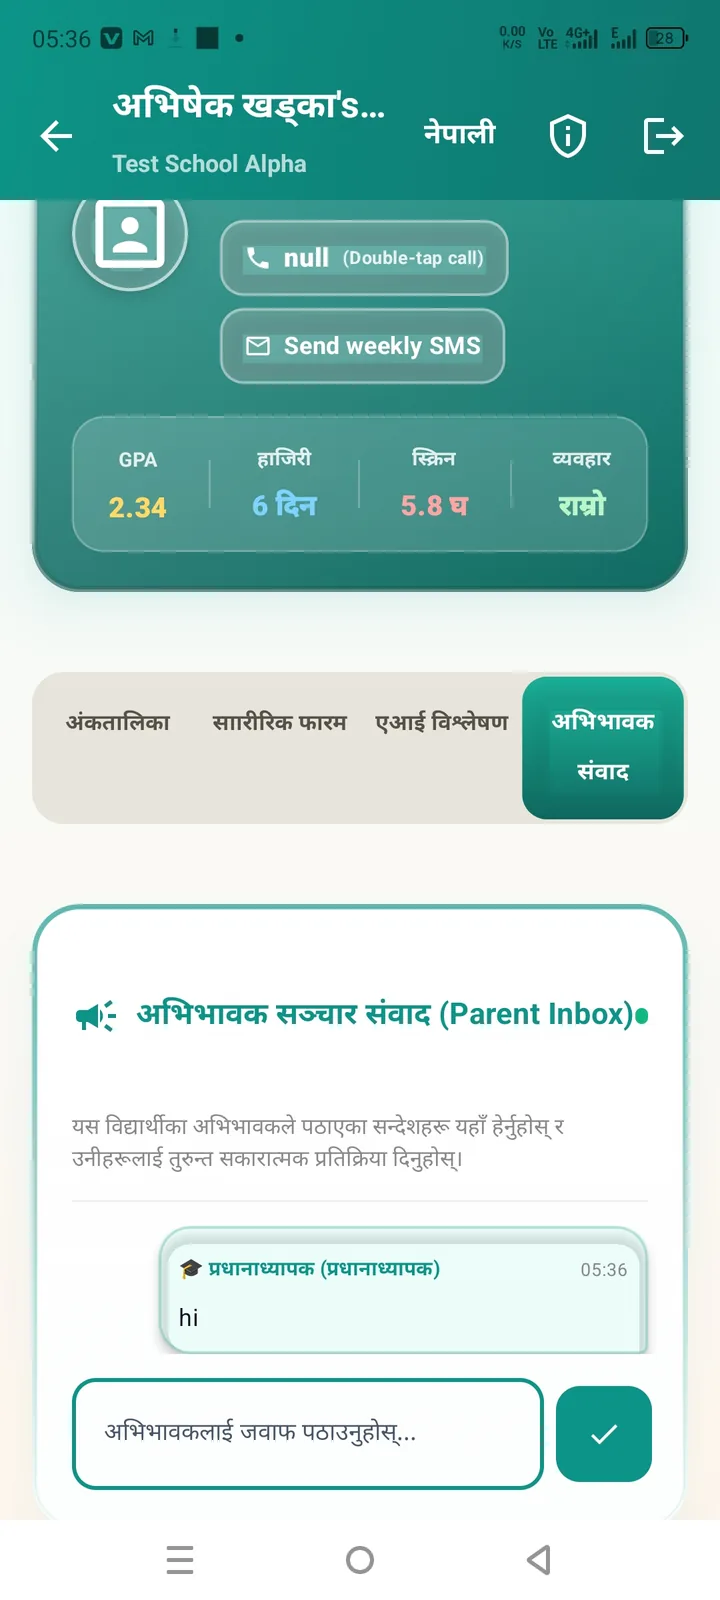
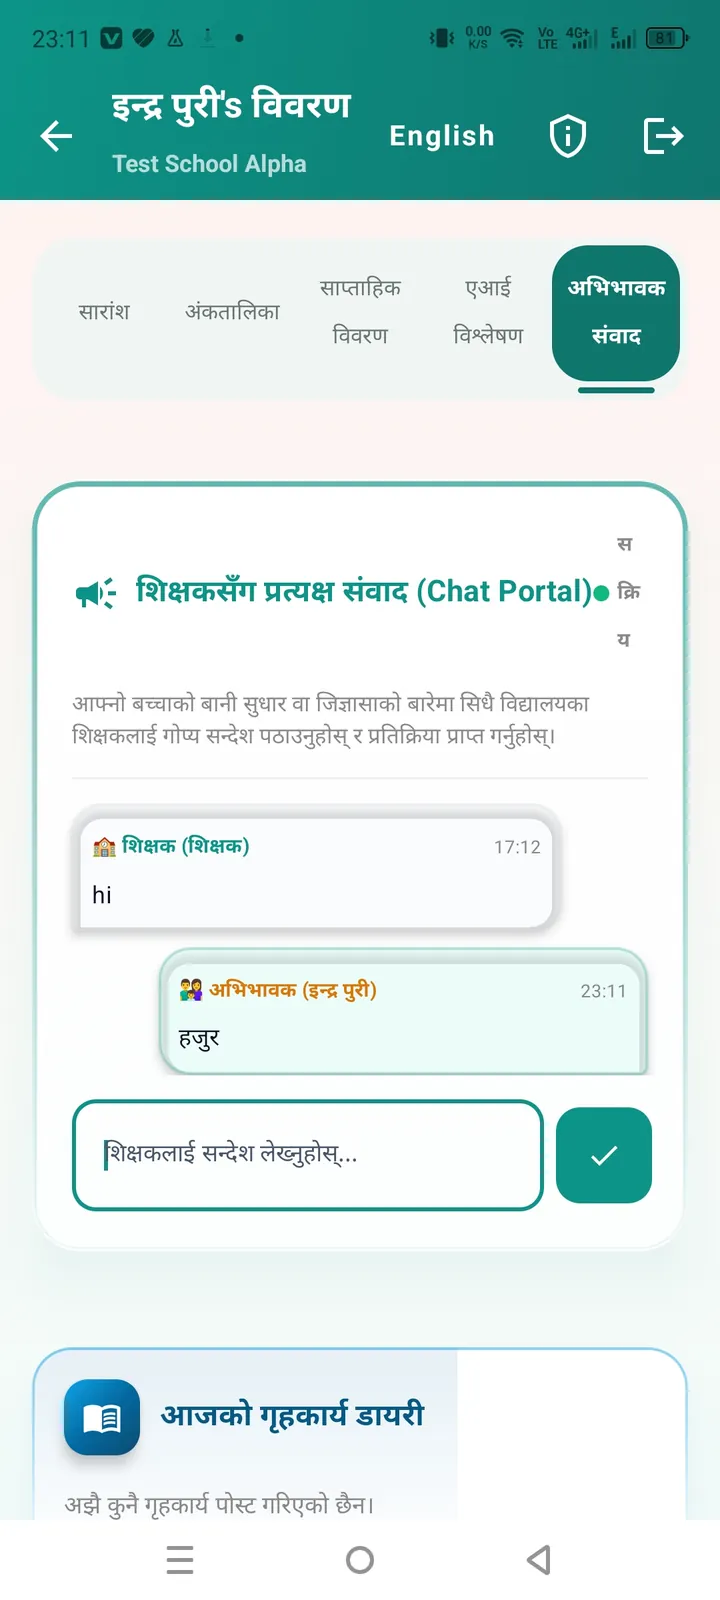
Update app screenshots, add connectIPS QR scroll hint
Claude-Session: https://claude.ai/code/session_01XU1EuA94LeQFRo5nwWLp37

diff --git a/assets/web-pay.js b/assets/web-pay.js
@@ -70,6 +70,16 @@
     return {
       ok: true, txn: txn,
       go: function () {
+        // Tell the payer where the QR is on the connectIPS page (we cannot scroll another site's
+        // page from here), then open the gateway after a short pause.
+        var hint = document.createElement("div");
+        hint.setAttribute("style", "position:fixed;left:0;right:0;bottom:0;z-index:99999;background:#152a6e;color:#fff;padding:16px 18px;font:600 .92rem/1.6 system-ui,sans-serif;text-align:center;box-shadow:0 -4px 18px rgba(0,0,0,.25)");
+        hint.textContent = "connectIPS पेज खुल्दैछ — पेजमा तल स्क्रोल गरेर “Scan & Pay” को QR स्क्यान गर्नुहोस्। तिरेपछि “Click here after payment” थिच्नुहोस्।";
+        document.body.appendChild(hint);
+        setTimeout(submitForm, 2600);
+      }
+    };
+    function submitForm() {
         var f = document.createElement("form");
         f.method = "POST"; f.action = data.gateway_url;
         f.target = OPEN_IN_NEW_TAB ? "_blank" : "_self";
@@ -81,8 +91,7 @@
         });
         document.body.appendChild(f);
         f.submit();
-      }
-    };
+    }
   }
 
   // Bank QR card: shows the same QR + bank details the app shows (read from app_config on the
